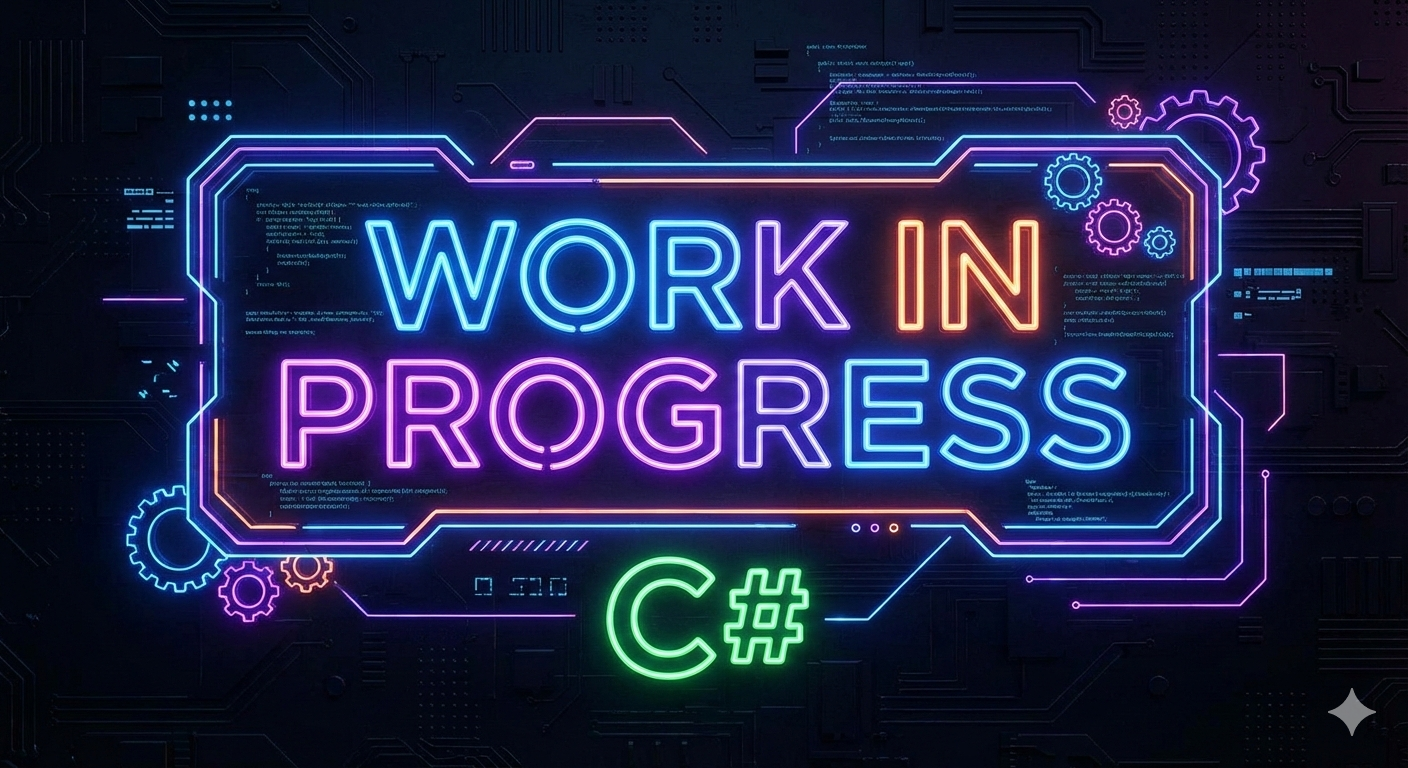
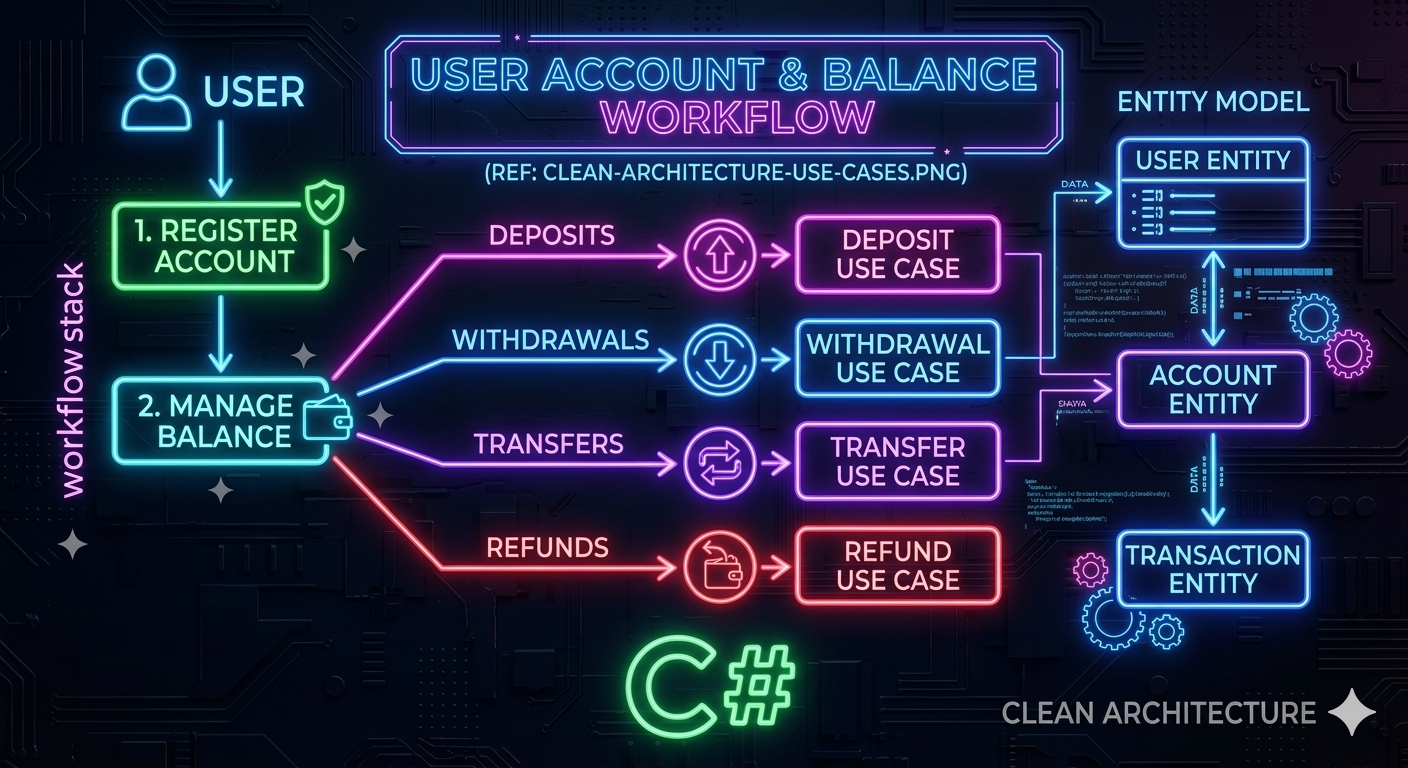
updated documentation

diff --git a/src/template/README.md b/src/template/README.md
@@ -8,9 +8,6 @@ Built with small components that are developed and tested in isolation.
 
 The template contains a virtual Wallet application in which a customer can register an account then manage the balance with `Deposits`, `Withdrawals`, `Transfers`, `Refunds`, and `Close Account` operations.
 
-Run the Docker container in less than 2 minutes using Play With Docker:
-
-<a href="https://labs.play-with-docker.com/?stack=https://raw.githubusercontent.com/genocs/clean-architecture-template/main/src/template/infrastructure/docker/docker-compose.yml&stack_name=clean-architecture-template" rel="nofollow"><img src="https://raw.githubusercontent.com/play-with-docker/stacks/master/assets/images/button.png" alt="Try in PWD" style="max-width:100%;"></a>
 
 ## Motivation
 
@@ -136,7 +133,9 @@ You can check them locally:
 - MongoDB: `TCP:localhost:27017`
 - Postgres: `TCP:localhost:5432`
 
-`infrastructure-monitoring.yml` allows to install the monitoring infrastructure components. They are:
+`infrastructure-monitoring.yml` allows to install the monitoring infrastructure components. 
+
+Find more on:
 
 - [Aspire](https://learn.microsoft.com/en-us/dotnet/aspire/)
 - [Prometheus](https://prometheus.io/)
@@ -154,7 +153,9 @@ You can find the console locally at:
 - [Jaeger](localhost:16686): `localhost:16686`
 - [Seq](localhost:5341): `localhost:5341`
 
-`infrastructure-scaling.yml` allows to install the scaling infrastructure components composed by a Load balancer (Fabio) Service Discovery (Consul) components. They are:
+`infrastructure-scaling.yml` allows to install the scaling infrastructure components composed by a Load balancer (Fabio) Service Discovery (Consul) components.
+
+Find more on:
 
 - [Fabio](https://fabiolb.net/)
 - [Consul](https://www.consul.io/)
@@ -402,11 +403,7 @@ public sealed class RegisterResponse
     [Required]
     public List<AccountDetailsModel> Accounts { get; }
 
-    public RegisterResponse(
-        Guid customerId,
-        string ssn,
-        string name,
-        List<AccountDetailsModel> accounts)
+    public RegisterResponse(Guid customerId, string ssn, string name, List<AccountDetailsModel> accounts)
     {
         CustomerId = customerId;
         SSN = ssn;
@@ -899,11 +896,11 @@ Principles to write maintainable and extendable software.
 
 | SOLID Principles | Description |
 | ---------------- | ----------- |
-| Single Responsibility Principle | A class should have one, and only one, reason to change. |
-| Open-Closed Principle | You should be able to extend a classes behavior, without modifying it. |
-| Liskov Substitution Principle | Derived classes must be substitutable for their base classes. |
-| Interface Segregation Principle | Make fine grained interfaces that are client specific. |
-| Dependency Inversion Principle | Depend on abstractions, not on concretions. |
+| __Single Responsibility Principle__ | A class should have one, and only one, reason to change. |
+| __Open-Closed Principle__ | You should be able to extend a classes behavior, without modifying it. |
+| __Liskov Substitution Principle__ | Derived classes must be substitutable for their base classes. |
+| __Interface Segregation Principle__ | Make fine grained interfaces that are client specific. |
+| __Dependency Inversion Principle__ | Depend on abstractions, not on concretions. |
 
 ## .NET Core Web API
 
@@ -921,52 +918,6 @@ builder.AddGenocs()
 var services = builder.Services;
 services.AddControllers().AddControllersAsServices();
 services.AddVersioning();
-```
-
-### Microsoft Extensions
-
-The solution uses the minimal hosting model. Service registration is centralized in [Program.cs](http://_vscodecontentref_/2):
-
-```c#
-StaticLogger.EnsureInitialized();
-
-var builder = WebApplication.CreateBuilder(args);
-
-builder.Host.UseLogging();
-
-builder.AddGenocs()
-       .AddSwaggerDocs()
-       .Build();
-
-var services = builder.Services;
-
-services.AddControllers().AddControllersAsServices();
-services.AddBusinessExceptionFilter();
-services.AddFeatureFlags(builder.Configuration);
-services.AddVersioning();
-services.AddCustomHealthChecks(builder.Configuration);
-
-#if InMemory
-services.AddInMemoryPersistence();
-#elif MongoDb
-services.AddMongoDbPersistence(builder.Configuration);
-#elif SQLServer
-services.AddSQLServerPersistence(builder.Configuration);
-#endif
-
-#if Rebus
-services.AddRebusServiceBus(builder.Configuration);
-#elif MassTransit
-services.AddMassTransitServiceBus(builder.Configuration);
-#elif NServiceBus
-services.AddNServiceBusServiceBus(builder.Configuration);
-#elif AzureServiceBus
-services.AddAzureServiceBus(builder.Configuration);
-#endif
-
-services.AddUseCases();
-services.AddPresentersV1();
-services.AddPresentersV2();
 ```
 
 ### Feature Flags
@@ -1003,33 +954,15 @@ public sealed class CustomControllerFeatureProvider(IFeatureManager featureManag
 ### Logging
 
 ```c#
-public static IWebHostBuilder CreateWebHostBuilder(string[] args)
-{
-    return WebHost.CreateDefaultBuilder(args)
-        .ConfigureAppConfiguration((hostingContext, config) =>
-        {
-            var env = hostingContext.HostingEnvironment;
+StaticLogger.EnsureInitialized();
 
-            config.AddJsonFile("appsettings.json", optional : true, reloadOnChange : true)
-                .AddJsonFile($"appsettings.{env.EnvironmentName}.json", optional : true, reloadOnChange : true);
+var builder = WebApplication.CreateBuilder(args);
 
-            config.AddEnvironmentVariables();
+builder.Host.UseLogging();
 
-            if (args != null)
-            {
-                config.AddCommandLine(args);
-            }
-        })
-        .ConfigureLogging((hostingContext, logging) =>
-        {
-            // Requires `using Microsoft.Extensions.Logging;`
-            logging.AddConfiguration(hostingContext.Configuration.GetSection("Logging"));
-            logging.AddConsole();
-            logging.AddDebug();
-            logging.AddEventSourceLogger();
-        })
-        .UseStartup(typeof(Program).Assembly.FullName);
-}
+
+// End with ..
+await Log.CloseAndFlushAsync();
 ```
 
 ```c#
@@ -1063,7 +996,7 @@ public enum Features
 
 Data Annotations are powerful tool from .NET, it can be interpreted by ASP.NET Core and other frameworks to generate Validation, User Interface and other things. Data Annotations are used to create a complete Swagger UI and HTTP Request validation. Of course following the Clean Architecture Principles we need to keep frameworks under control.
 
-I decided to use Data Annotations on the User Interface layer. Take a look on the `RegisterRequest` class:
+I've decided to use Data Annotations on the User Interface layer. Take a look on the `RegisterRequest` class:
 
 ```c#
 /// <summary>
@@ -1123,11 +1056,7 @@ public sealed class RegisterResponse
     [Required]
     public List<AccountDetailsModel> Accounts { get; }
 
-    public RegisterResponse(
-        Guid customerId,
-        string ssn,
-        string name,
-        List<AccountDetailsModel> accounts)
+    public RegisterResponse(Guid customerId, string ssn, string name, List<AccountDetailsModel> accounts)
     {
         CustomerId = customerId;
         SSN = ssn;
@@ -1137,7 +1066,6 @@ public sealed class RegisterResponse
 }
 ```
 
-References: [Designing and Testing Input Validation in .NET Core: The Clean Architecture way](https://paulovich.net/designing-testing-input-validation-in-dotnet-core-the-clean-architecture-way/)
 
 ## Entity Framework Core
 
@@ -1199,10 +1127,10 @@ public sealed class GenocsContext : DbContext
 
 ### Add Migration
 
-Prerequisites>
 
 1. Install the latest .NET Core SDK.
 2. Install the Entity Framework Core Tool:
+
 ```sh
 # Install the Entity Framework Core Tool globally
 dotnet tool install --global dotnet-ef
@@ -1329,24 +1257,7 @@ deploy_script:
 
 The project build two different images. One for the the Web API and one for the bus worker.
 
-```sh
-FROM mcr.microsoft.com/dotnet/sdk:10.0 AS build
-WORKDIR /app
-
-# Copy everything else and build
-COPY . .
-RUN dotnet publish src/WebApi -c release -o out
-
-# Build runtime image
-FROM mcr.microsoft.com/dotnet/aspnet:10.0
-WORKDIR /app
-COPY --from=build /app/out .
-ENV ASPNETCORE_URLS http://*:80
-ENV ASPNETCORE_ENVIRONMENT Docker
-ENTRYPOINT dotnet {MyCompany.MyProject}.WebApi.dll
-```
-
-To build the docker images
+To build the docker images:
 
 ```sh
 docker build -t company/project.service.webapi -f ./src/WebApi/Dockerfile .
@@ -1361,24 +1272,10 @@ To spin up a SQL Server in a docker container using the connection string `Serve
 ./src/scripts/sql-docker-up.sh
 ```
 
-## Related Content and Projects
-
-| Video                                                                                                                            | Date         |
-| -------------------------------------------------------------------------------------------------------------------------------- | ------------ |
-| [Hexagonal and Clean Architecture styles. Same or Different?](https://www.youtube.com/watch?v=FNQbyZu-NAo)                       | Sep 16, 2019 |
-| [Clean Architecture Essentials](https://www.youtube.com/watch?v=NjPjCxTIf4M)                                                     | Sep 13, 2019 |
-| [Shinning Frameworks and DDD?!](https://www.youtube.com/watch?v=OmxBqmmhoHg)                                                     | Sep 12, 2019 |
-| [Clean Architecture: The User Interface is a detail](https://www.youtube.com/watch?v=lWH_ZDu2zKQ)                                | Sep 11, 2019 |
-| [TDD and Hexagonal Architecture: Clean Tests](https://www.youtube.com/watch?v=j6_XPsqjrhE)                                       | Sep 10, 2019 |
-| [Designing and Testing Input Validation with .NET Core: The Clean Architecture way](https://www.youtube.com/watch?v=hyW4d5OcExw) | Sep 9, 2019  |
-| [Clean Architecture Manga](https://www.youtube.com/watch?v=ivAkdJmSqLQ)                                                          | Aug 6, 2019  |
-| [TDD and TDD with .NET Core and VSCode](https://www.youtube.com/watch?v=ORe0r4bpfac&t=360s)                                      | Nov 3, 2018  |
-| [Introduction to Clean Architecture](https://www.youtube.com/watch?v=6SeoWIIK1NU&t=50s)                                          | Oct 31, 2018 |
 
 ## Contributors ✨
 
 Thanks goes to these wonderful people ([emoji key](https://allcontributors.org/docs/en/emoji-key)):
-
 
 
 This project follows the [all-contributors](https://github.com/all-contributors/all-contributors) specification. Contributions of any kind welcome!

diff --git a/README.md b/README.md
@@ -55,14 +55,14 @@ A comprehensive .NET 10 project template that follows Clean Architecture princip
 - 🏗 **Clean Architecture** - Domain, Application, Infrastructure, and Presentation layers
 - 🎯 **Domain-Driven Design** - Rich domain models with proper separation of concerns
 - 📨 **CQRS Pattern** - Command and event-driven workflows via `Genocs.Common.CQRS`
-- 🚌 **Message Brokers** - Azure Service Bus, MassTransit, NServiceBus, and Rebus options
+- 🚌 **Message Brokers** - MassTransit, NServiceBus, and Rebus options with `RabbitMQ`
 - 🗃 **Multiple Databases** - MongoDB, EF Core (SQL Server), and InMemory options
-- 🔍 **Telemetry and Logging** - Built-in telemetry/logging integration with monitoring stack assets
+- 🔍 **Telemetry and Logging** - Built-in telemetry/logging via `Genocs.Logging` and `Genocs.Telemetry` integration with monitoring stack assets
 - 🐳 **Containerization** - Docker and Kubernetes ready
 - ☁ **Infrastructure as Code** - Bicep, Terraform, Helm, and Kubernetes manifests included
 - ⚡ **Background Services** - Worker services for async processing
 - 🧪 **Comprehensive Testing** - Unit, Integration, and Acceptance tests
-- 📘 **API Versioning and OpenAPI** - Versioned endpoints and OpenAPI support out of the box
+- 📘 **API Versioning and OpenAPI** - Versioned endpoints and OpenAPI `Genocs.WebApi.OpenApi` support out of the box
 
 ## 📋 Table of Contents
 
@@ -90,6 +90,7 @@ A comprehensive .NET 10 project template that follows Clean Architecture princip
   - SQL Server for `--database sqlserver` (default)
   - RabbitMQ for `--service-bus masstransit|rebus|nservicebus`
   - Azure Service Bus namespace for `--service-bus azureservicebus`
+  - [Reqnroll](https://docs.reqnroll.net/latest/installation/setup-ide.html) plugin for Testing
 
 ## 🚀 Quick Start
 
